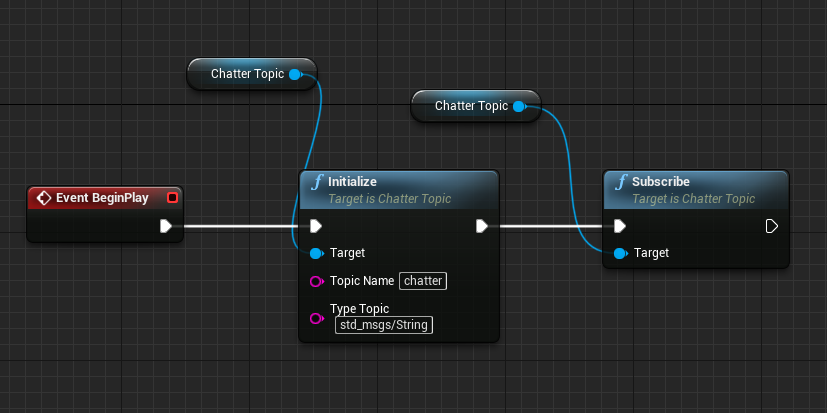
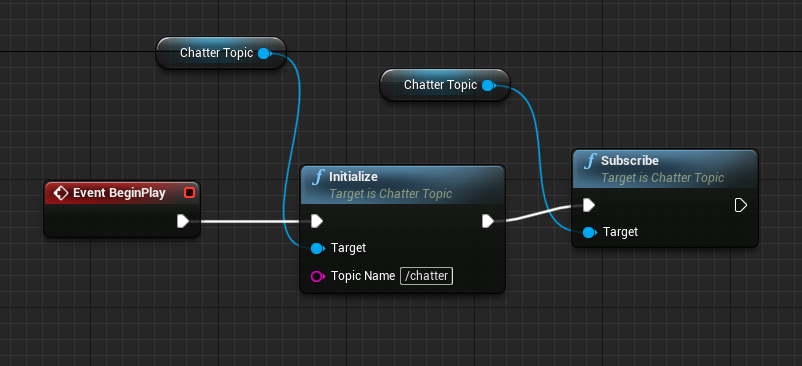
[README] Add tutorials to custom topic and message

diff --git a/docs/tutorials/CustomServiceTopic.md b/docs/tutorials/CustomServiceTopic.md
@@ -1,0 +1,230 @@
+# Create Custom Service or Topic Client
+
+## Custom Topic 
+
+Examples from chatterTopic
+
+1. your new class must inherit from TopicBase and UActorComponent
+
+2. Define structure for c++ and Blueprints: 
+
+for c++ use :
+```cpp 
+typedef struct {
+	std::string data;
+} chatterMessage_t;
+
+NLOHMANN_DEFINE_TYPE_NON_INTRUSIVE(chatterMessage_t, data)
+```
+for blueprint use : 
+```cpp
+USTRUCT(BlueprintType)
+struct FchatterMessage
+{
+	GENERATED_USTRUCT_BODY()
+
+	UPROPERTY(BlueprintReadWrite)
+	FString data;
+};
+```
+Define the type of the message for ROS 
+```cpp
+ FString type_topic_ = "std_msgs/String";
+```
+
+3. Define conversion between C++ type and Unreal Engine type 
+
+```cpp
+	static chatterMessage_t fromUnreal(const FchatterMessage& msg) {
+		chatterMessage_t c;
+		c.data = fstring2string(msg.data);
+		return c;
+	}
+
+	static FchatterMessage toUnreal(const chatterMessage_t& msg) {
+		FchatterMessage c;
+		c.data = string2Fstring(msg.data);
+		return c;
+	}
+```
+
+4. Adapt with the name of your message (here chatterMessage_t for c++ and FchatterMessage for Blueprint)
+
+```cpp
+	void Publish(const chatterMessage_t& msg) {
+		TopicBase::publish<chatterMessage_t>(msg);
+	};
+	UFUNCTION(BlueprintCallable, Category = "chatterTopic")
+	void Publish(const FchatterMessage& msg) {
+		TopicBase::publish<chatterMessage_t>(fromUnreal(msg));
+	};
+
+	void socket_callback(FString msg) {
+		nlohmann::json j = nlohmann::json::parse(fstring2string(msg));
+		publishMessage_t<chatterMessage_t> revMes = j.get<publishMessage_t<chatterMessage_t>>();
+		if (TopicBase::bInitialized) {
+			if (revMes.op == "publish" && revMes.topic == fstring2string(stored_topic_name_)) {
+				if (callback_) {
+					callback_(revMes.msg);
+				}
+				else {
+					newMessageEvent.Broadcast(toUnreal(revMes.msg));
+				}
+			}
+		}
+		
+	};
+
+	bool subscribe(std::function<void(chatterMessage_t)> callback) { 
+		callback_ = callback;
+		TopicBase::subscribe();
+		return true;
+	};
+	
+	std::function<void(chatterMessage_t)> callback_;
+
+```
+
+5. Define the category to easily find your function in Blueprint 
+```cpp 
+UFUNCTION(BlueprintCallable, Category = "chatterTopic")
+```
+
+
+
+## Custom Service
+Examples from twoIntsService
+1. your new class must inherit from ServiceBase and UActorComponent
+
+
+1. Define structure for c++ and Blueprints: 
+
+for c++ use :
+```cpp 
+typedef struct {
+	int a;
+	int b;
+} requestAddTwoInts_t;
+
+NLOHMANN_DEFINE_TYPE_NON_INTRUSIVE(requestAddTwoInts_t, a, b)
+
+typedef struct {
+	int sum;
+} responseAddTwoInts_t;
+
+NLOHMANN_DEFINE_TYPE_NON_INTRUSIVE(responseAddTwoInts_t, sum)
+
+typedef struct {
+	requestAddTwoInts_t req;
+	responseAddTwoInts_t res;
+}serviceMessageAddTwoInts;
+
+NLOHMANN_DEFINE_TYPE_NON_INTRUSIVE(serviceMessageAddTwoInts, req, res)
+```
+for blueprint use : 
+```cpp
+
+USTRUCT(BlueprintType)
+struct FrequestAddTwoInts
+{
+	GENERATED_USTRUCT_BODY()
+public:
+		UPROPERTY(BlueprintReadWrite)
+		int a;
+		UPROPERTY(BlueprintReadWrite)
+		int b;
+};
+
+USTRUCT(BlueprintType)
+struct FresponseAddTwoInts
+{
+	GENERATED_USTRUCT_BODY()
+public:
+		UPROPERTY(BlueprintReadWrite)
+		int sum;
+};
+USTRUCT(BlueprintType)
+struct FserviceMessageAddTwoints
+{
+	GENERATED_USTRUCT_BODY()
+public:
+		UPROPERTY(BlueprintReadWrite)
+		FrequestAddTwoInts req;
+		UPROPERTY(BlueprintReadWrite)
+		FresponseAddTwoInts res;
+
+};
+```
+
+1. Define conversion between C++ type and Unreal Engine type 
+
+```cpp
+	
+	static requestAddTwoInts_t fromUnreal(const FrequestAddTwoInts& msg) {
+		requestAddTwoInts_t c;
+		c.a = msg.a;
+		c.b = msg.b;
+		return c;
+	}
+
+	static FrequestAddTwoInts toUnreal(const requestAddTwoInts_t& msg) {
+		FrequestAddTwoInts c;
+		c.a = msg.a;
+		c.b = msg.b;
+		return c;
+	}
+
+	static responseAddTwoInts_t fromUnreal(const FresponseAddTwoInts& msg) {
+		responseAddTwoInts_t c;
+		c.sum = msg.sum;
+		return c;
+	}
+
+	static FresponseAddTwoInts toUnreal(const responseAddTwoInts_t& msg) {
+		FresponseAddTwoInts c;
+		c.sum = msg.sum;
+		return c;
+	}
+
+	static serviceMessageAddTwoInts fromUnreal(const FserviceMessageAddTwoints& msg) {
+		serviceMessageAddTwoInts c;
+		c.req = fromUnreal(msg.req);
+		c.res = fromUnreal(msg.res);
+		return c;
+	}
+
+	static FserviceMessageAddTwoints toUnreal(const serviceMessageAddTwoInts& msg) {
+		FserviceMessageAddTwoints c;
+		c.req = toUnreal(msg.req);
+		c.res = toUnreal(msg.res);
+		return c;
+	}
+```
+
+4. Adapt with the name of your message
+
+```cpp
+	UFUNCTION(BlueprintCallable, Category = "twoIntService")
+	FresponseAddTwoInts call(const FrequestAddTwoInts& reqUnreal) {
+		responseAddTwoInts_t res;
+		requestAddTwoInts_t req = fromUnreal(reqUnreal);
+		call(req, res);
+		return toUnreal(res);
+	}
+
+
+	bool call(const requestAddTwoInts_t& req, responseAddTwoInts_t& res) {
+		return ServiceBase::call<requestAddTwoInts_t, responseAddTwoInts_t>(req, res);
+	}
+
+	void callbackService(const FString& msg) {
+		//UE_LOG(LogTemp, Warning, TEXT("Dans le callback Ontologenius"));
+		ServiceBase::callbackService<responseAddTwoInts_t>(msg);
+	}
+
+```
+
+5. Define the category to easily find your function in Blueprint 
+```cpp 
+UFUNCTION(BlueprintCallable, Category = "twoIntService")
+```

diff --git a/README.md b/README.md
@@ -41,7 +41,7 @@ AmyActor::AmyActor()
 void AClientExamples::BeginPlay()
 {
 	Super::BeginPlay();
-	topic_client->initialize("/chatter1", "std_msgs/String");
+	topic_client->initialize("/chatter1");
 	
 }
 
@@ -136,6 +136,8 @@ void AClientExamples::Tick(float DeltaTime)
 #### Call Service 
 
 ![Call of Service](docs/images/Examples/Blueprint/call_service.PNG)
+
+[Tutorials to create Custom Topic or Service](docs/tutorials/CustomServiceTopic.md)
 
 
 [Release-Url]: https://github.com/RIS-WITH/ROS4Unreal
